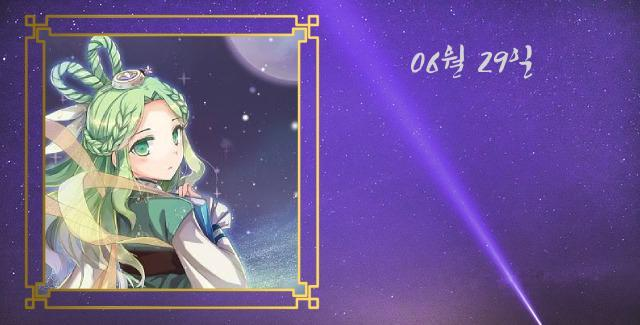
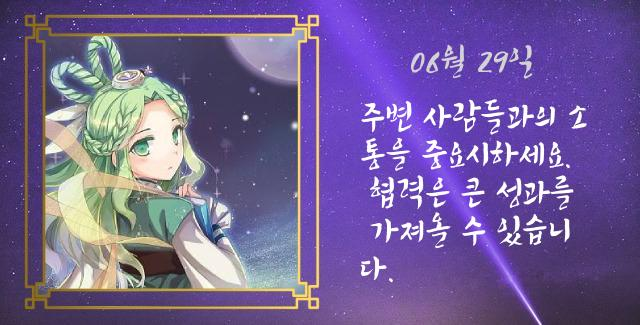
오늘의 운세 기능 만듦

Changed region(s): [[0.5625, 0.3077, 0.9375, 0.7692], [0.5625, 0.7692, 0.625, 0.8615]]

diff --git a/cogs/game.py b/cogs/game.py
@@ -8,23 +8,142 @@ import os
 import PIL
 from PIL import Image, ImageFont, ImageDraw
 import datetime
+import csv
 
+utc = datetime.timezone.utc
+rest_time = datetime.time(hour=19, minute=00, tzinfo=utc)
 __location__ = os.path.realpath(os.path.join(os.getcwd(), os.path.dirname(__file__)))
 
-ZodiacDict = {
-    "호랑이":"",
-    "토끼":"",
-    "용":"",
-    "뱀":"",
-    "말":"",
-    "양":"",
-    "원숭이":"",
-    "닭":"",
-    "개":"",
-    "돼지":"",
-    "쥐":"",
-    "소":"",
-}
+DailyLuckMsg = [
+        "오늘은 새로운 기회가 찾아올 것입니다.",
+        "어려운 일이 있더라도 포기하지 마세요. 그것이 성공으로 가는 길입니다.",
+        "긍정적인 에너지를 유지하세요. 주변 사람들에게 영감을 줄 수 있습니다.",
+        "과거의 실수를 후회하지 마세요. 그것들은 성장의 기회였습니다.",
+        "오늘은 집중력이 높아지는 날입니다. 목표에 집중하세요.",
+        "자신에게 자신감을 가지세요. 자신의 능력을 믿어야 성공할 수 있습니다.",
+        "예상치 못한 기쁨이 찾아올 것입니다. 기대해도 좋습니다.",
+        "주변 사람들과의 소통을 중요시하세요. 협력은 큰 성과를 가져올 수 있습니다.",
+        "주어진 일에 최선을 다하세요. 노력은 결실을 맺을 것입니다.",
+        "오늘은 명상이나 여가 시간을 갖는 것이 좋습니다. 내면의 평화를 찾을 수 있습니다.",
+        "어려움을 만나더라도 꿋꿋하게 나아가세요. 어려움은 단지 시험일 뿐입니다.",
+        "긍정적인 사고를 유지하세요. 그것이 문제 해결의 열쇠입니다.",
+        "도전에 맞서기를 두려워하지 마세요. 성장과 배움의 기회가 될 수 있습니다.",
+        "오늘은 새로운 인연이 생길 수 있는 날입니다. 주변을 주의깊게 봐주세요.",
+        "당신의 노력이 인정받을 것입니다. 주변 사람들의 찬사에 귀 기울이세요.",
+        "자신의 장점을 활용하세요. 그것이 성공으로 가는 열쇠입니다.",
+        "무엇이든 해낼 수 있습니다. 자신에게 자신감을 가지세요.",
+        "주변 사람들에게 도움을 구하세요. 협력은 상호 유익한 결과를 가져올 수 있습니다.",
+        "오늘은 긍정적인 변화가 있을 것입니다. 기대해도 좋습니다.",
+        "새로운 아이디어가 떠오를 것입니다. 창의적인 생각에 주목하세요.",
+        "오늘은 안정적인 에너지가 느껴질 것입니다. 안심하고 나아가세요.",
+        "어려운 상황에서도 포기하지 마세요. 어려움을 극복할 수 있습니다.",
+        "자신에게 도전을 주세요. 능력의 한계를 넘어설 수 있습니다.",
+        "오늘은 긍정적인 변화가 찾아올 것입니다. 기회를 잡으세요.",
+        "주변 사람들과의 원활한 소통이 중요합니다. 소통은 관계를 개선시킬 수 있습니다.",
+        "새로운 기회를 놓치지 마세요. 그것이 성공으로 이끌 수 있습니다.",
+        "오늘은 자신의 감정에 귀 기울이는 것이 좋습니다. 내면의 평화를 찾을 수 있습니다.",
+        "과거의 실수에 집착하지 마세요. 과거는 이미 지나갔습니다.",
+        "오늘은 자신의 장점을 믿어보세요. 그것이 성공으로 가는 길입니다.",
+        "어려운 일을 맡기 전에 충분히 준비하세요. 준비는 성공의 핵심입니다.",
+        "오늘은 독창적인 아이디어가 떠오를 수 있는 날입니다. 창의력을 발휘해 보세요.",
+        "자신을 사랑하고 돌봐주세요. 자기 존중감이 성공으로 이끌어 줄 것입니다.",
+        "주변 사람들의 조언에 귀를 기울이세요. 그들의 지혜는 가치가 있을 수 있습니다.",
+        "오늘은 운이 좋은 날입니다. 기대를 가져도 좋습니다.",
+        "목표를 분명하게 설정하세요. 목표가 뚜렷할수록 성공에 가까워집니다.",
+        "자신의 역량을 믿으세요. 그것이 성공을 이끄는 열쇠입니다.",
+        "어려움에 직면하더라도 겁내지 마세요. 어려움은 성장을 위한 시험입니다.",
+        "오늘은 새로운 도전에 임하는 것이 좋습니다. 성장의 기회가 될 수 있습니다.",
+        "긍정적인 마인드셋으로 일하세요. 그것이 성공에 가는 길입니다.",
+        "주변 사람들에게 관심을 가져주세요. 그들의 지지는 큰 힘이 될 수 있습니다.",
+        "오늘은 예상치 못한 성과를 얻을 수 있는 날입니다. 놀라운 결과를 기대해보세요.",
+        "노력에 대한 보상이 찾아올 것입니다. 꾸준한 노력은 결실을 맺을 것입니다.",
+        "자신에게 도전하고 성장하세요. 한계를 넘어설 수 있습니다.",
+        "오늘은 안정적인 에너지가 넘칠 것입니다. 이에 기대하세요.",
+        "어려움을 마주했을 때는 자신을 격려해주세요. 어려움은 단지 장애물일 뿐입니다.",
+        "긍정적인 사고방식으로 일하세요. 그것이 문제 해결을 돕습니다.",
+        "도전에 맞서기를 두려워하지 마세요. 그것이 성장과 발전의 길입니다.",
+        "오늘은 새로운 인연이 찾아올 수 있는 날입니다. 주변 사람들과의 만남을 소중히 여기세요.",
+        "당신의 노력과 열정은 인정받을 것입니다. 주변 사람들의 칭찬을 받아들이세요.",
+        "자신의 장점을 잘 활용하세요. 그것이 성공을 이끄는 열쇠입니다.",
+        "어떤 일이든 해낼 수 있습니다. 자신에게 자신감을 가지세요.",
+        "주변 사람들과의 협력을 이끌어내세요. 함께하는 힘은 큰 성과를 이끌어낼 수 있습니다.",
+        "오늘은 변화가 있을 수 있는 날입니다. 긍정적으로 변화에 대응하세요.",
+        "새로운 아이디어에 주목하세요. 그것이 미래를 열어갈 수 있습니다.",
+        "오늘은 안정적인 에너지를 느낄 수 있는 날입니다. 이를 활용하세요.",
+        "어려움을 마주했을 때 포기하지 마세요. 어려움은 성공을 위한 시험일 뿐입니다.",
+        "자신의 능력을 믿어보세요. 그것이 성공으로 이끌어 줄 것입니다.",
+        "오늘은 주변 사람들과의 원활한 소통이 중요합니다. 소통은 관계를 향상시킬 수 있습니다.",
+        "새로운 기회를 놓치지 마세요. 그것이 성공으로 이끌 수 있습니다.",
+        "오늘은 내면의 평화를 찾을 수 있는 좋은 날입니다. 조용한 시간을 가져보세요.",
+        "과거의 실수에 집착하지 마세요. 과거는 이미 지나갔습니다.",
+        "오늘은 자신의 장점을 활용해보세요. 그것이 성공을 향한 길입니다.",
+        "어려운 일을 맡기 전 충분한 준비를 해야합니다. 준비는 성공의 핵심입니다.",
+        "오늘은 창의적인 아이디어가 떠오를 수 있는 날입니다. 창조력을 발휘해보세요.",
+        "자신을 사랑하고 돌봐주세요. 자기 존중감이 성공을 이끌어줄 것입니다.",
+        "주변 사람들의 조언에 귀를 기울여보세요. 그들의 지혜는 귀중할 수 있습니다.",
+        "오늘은 운이 좋은 날입니다. 기대를 가져도 좋습니다.",
+        "목표를 명확히 설정하세요. 목표가 뚜렷할수록 성공에 가까워집니다.",
+        "자신의 역량을 믿어보세요. 그것이 성공을 이끄는 열쇠입니다.",
+        "어려운 상황에 직면해도 두려워하지 마세요. 어려움은 성장을 위한 기회입니다.",
+        "오늘은 새로운 도전에 집중해보세요. 성장의 기회가 될 수 있습니다.",
+        "긍정적인 사고방식으로 일하세요. 그것이 문제 해결을 돕습니다.",
+        "주변 사람들에게 관심을 가져주세요. 그들의 지지는 큰 힘이 될 수 있습니다.",
+        "오늘은 예상치 못한 결과를 얻을 수 있는 날입니다. 놀라운 결과를 기대해보세요.",
+        "노력한 만큼 보상이 올 것입니다. 꾸준한 노력은 성공으로 이끌어줄 것입니다.",
+        "자신에게 도전하고 성장하세요. 한계를 넘어설 수 있습니다.",
+        "오늘은 안정감을 느낄 수 있는 날입니다. 이를 활용해보세요.",
+        "어려운 상황에서도 포기하지 마세요. 어려움을 극복할 수 있습니다.",
+        "자신의 역량을 믿고 나아가세요. 그것이 성공으로 이끄는 열쇠입니다.",
+        "오늘은 기대 이상의 결과가 있을 수 있는 날입니다. 긍정적으로 대해보세요.",
+        "주변 사람들과의 원활한 소통이 중요합니다. 소통은 관계를 향상시킬 수 있습니다.",
+        "새로운 기회를 놓치지 마세요. 그것이 성공으로 이끌 수 있습니다.",
+        "오늘은 내면의 평화를 찾을 수 있는 좋은 날입니다. 조용한 시간을 갖추세요.",
+        "과거의 실수에 집착하지 마세요. 과거는 이미 지나간 일입니다.",
+        "오늘은 자신의 장점을 발휘해보세요. 그것이 성공을 향한 길입니다.",
+        "어떤 일이든 해낼 수 있습니다. 자신을 믿어보세요.",
+        "주변 사람들과의 협력을 이끌어내세요. 함께 하는 힘은 큰 성과를 이끌어낼 수 있습니다.",
+        "오늘은 변화가 있는 날입니다. 긍정적으로 변화에 대응해보세요.",
+        "새로운 아이디어에 주목하세요. 그것이 미래를 열어갈 수 있습니다.",
+        "오늘은 안정된 에너지를 느낄 수 있는 날입니다. 이를 활용해보세요.",
+        "어려움을 마주했을 때 포기하지 않고 극복해보세요. 어려움은 성공을 위한 시험입니다.",
+        "자신의 능력을 믿어보세요. 그것이 성공을 이끌어줄 것입니다.",
+        "오늘은 주변 사람들과의 원활한 소통이 중요합니다. 상호 작용을 통해 관계를 향상시킬 수 있습니다.",
+        "새로운 기회를 놓치지 말고 잡으세요. 그것이 성공으로 이끌 수 있습니다.",
+        "오늘은 내면의 평화를 찾을 수 있는 좋은 날입니다. 조용한 시간을 가져보세요.",
+        "과거의 실수에 집착하지 않아도 괜찮습니다. 과거는 이미 지나간 일입니다.",
+        "오늘은 자신의 장점을 잘 활용해보세요. 그것이 성공을 향한 열쇠입니다.",
+        "어려운 상황에 직면했을 때도 포기하지 마세요. 어려움은 성장을 위한 시험입니다.",
+        "오늘은 새로운 도전을 맞이하기에 좋은 날입니다. 성장과 발전의 기회가 될 수 있습니다.",
+        "긍정적인 사고를 유지하세요. 그것이 성공으로 이끄는 길입니다.",
+        "자신의 목표를 분명하게 설정하세요. 명확한 목표는 성공을 향한 길목을 제시해줍니다.",
+        "오늘은 도전에 집중해보세요. 도전은 성장과 발전의 기회를 가져다줍니다.",
+        "자신의 역량과 잠재력을 믿어보세요. 당신은 놀라운 일을 이룰 수 있습니다.",
+        "오늘은 새로운 아이디어가 떠오를 수 있는 날입니다. 창의력을 발휘해 보세요.",
+        "주변 사람들과의 협력을 강조해보세요. 함께하는 힘은 큰 성과를 이룰 수 있습니다.",
+        "오늘은 변화에 개방적인 태도를 갖추어보세요. 변화는 새로운 가능성을 열어줄 수 있습니다.",
+        "자신의 감정에 귀를 기울여보세요. 내면의 조화를 찾을 수 있습니다.",
+        "과거의 실수에 집착하지 마세요. 그 대신에 현재에 집중해보세요.",
+        "자신의 장점과 재능을 자랑스럽게 생각해보세요. 그것들이 당신의 독특한 매력입니다.",
+        "오늘은 자신을 사랑하고 돌보는 시간을 가져보세요. 자기 자신을 소중히 여기는 것이 중요합니다.",
+        "주변 사람들의 조언을 듣고 배우려 노력해보세요. 그들은 당신에게 새로운 시각을 제공할 수 있습니다.",
+        "오늘은 행운이 함께할 수 있는 날입니다. 긍정적인 기대를 가져보세요.",
+        "목표를 명확하게 설정하고 그에 맞춰 행동하세요. 목표는 당신을 성공으로 이끌어줄 것입니다.",
+        "자신의 역량과 잠재력을 믿어보세요. 당신은 놀라운 성과를 이룰 수 있습니다.",
+        "오늘은 주변 사람들과의 소통에 더욱 신경을 써야 합니다. 소통은 관계를 향상시킬 수 있습니다.",
+        "새로운 기회를 놓치지 말고 잡으세요. 그것이 당신의 성공으로 이끌어갈 수 있습니다.",
+        "오늘은 내면의 평화와 조화를 찾을 수 있는 좋은 날입니다. 조용한 시간을 갖추세요.",
+        "과거의 실수에 과도하게 집착하지 말고, 그 대신에 배움과 성장에 집중하세요.",
+        "오늘은 자신의 장점을 최대한으로 활용해보세요. 그것이 성공으로 이끄는 열쇠입니다.",
+        "어려운 상황에 직면해도 극복할 수 있습니다. 자신에게 믿음을 가져보세요.",
+        "자신의 능력을 자세히 알아보세요. 그것이 성공을 이끄는 중요한 요소입니다.",
+        "오늘은 주변 사람들과의 원활한 협력이 필요합니다. 함께 하는 것이 큰 성과를 이룰 수 있습니다.",
+        "새로운 시도에 열린 마음을 가져보세요. 그것이 당신에게 더 나은 결과를 가져다줄 수 있습니다.",
+        "자신의 창조적인 아이디어를 발휘해보세요. 놀라운 발견을 할 수 있습니다.",
+        "오늘은 안정된 에너지를 느낄 수 있는 날입니다. 이를 활용해보세요.",
+        "어려운 상황에 직면했을 때도 포기하지 마세요. 어려움은 성장과 배움의 기회입니다.",
+        "자신의 능력과 자신감을 믿어보세요. 당신은 놀라운 일을 이룰 수 있습니다.",
+        "오늘은 주변 사람들과의 원활한 소통이 중요합니다. 상호 작용을 통해 관계를 더욱 향상시킬 수 있습니다."
+        ]
 
 MemoryGameDict = {1:"<:aya:1122868308144828438>",
 2:"<:baduk:1122868299663941783>",
@@ -190,14 +309,26 @@ class Game(commands.Cog):
         await interaction.response.send_message(embed=embed, view=view)
 
     @app_commands.command(name="운세", description="오늘의 운세입니다")
-    async def DailyLuck(self, interaction: discord.Interaction, zodiac: str):
-        """
-        _summary_
-        오늘의 띠별 운세
-        Args:
-            interaction (discord.interaction, 필수): 커맨드 쓴 사람 & interaction
-            zodiac (int, 옵션): 자신의 띠
-        """
+    async def DailyLuck(self, interaction: discord.Interaction):
+        user_id = interaction.user.id
+
+        f = open(os.path.join(f"{__location__}\\DailyLuck\\DailyLuckCSV.csv"), 'r')
+        fr = csv.reader(f)
+        luck_text = ""
+
+        for line in fr:
+            if line[0] == str(user_id):
+                luck_text = line[1]
+                break
+
+        f.close()
+        
+        if luck_text == "":
+            luck_text = DailyLuckMsg[random.randint(0,127)]
+            f = open(os.path.join(f"{__location__}\\DailyLuck\\DailyLuckCSV.csv"), 'a', newline='')
+            fw = csv.writer(f)
+            fw.writerow([user_id, luck_text])
+            f.close()
 
         date_text = datetime.datetime.now().strftime("%m")+"월"+" "+datetime.datetime.now().strftime("%d")+"일"
         image = Image.open(os.path.join(f"{__location__}\\DailyLuck\\DailyLuckImg.jpg"))
@@ -205,11 +336,6 @@ class Game(commands.Cog):
         draw = ImageDraw.Draw(image)
         draw.text((410,40),date_text,font=ImageFont.truetype(os.path.join(fonts_dir, 'Dobong_Cultural_Routes(TTF).ttf'), 35), fill=(210,210,210))
         image.save(os.path.join(f"{__location__}\\DailyLuck\\DailyLuckImgDate.jpg"))
-
-        try:
-            luck_text = ZodiacDict[zodiac]
-        except:
-            luck_text = "호랑이·토끼·용·뱀·말·양·원숭이·닭·개·돼지·쥐·소 중 하나의 띠를 입력해 주십시오"
 
         msg = ""
         n = len(luck_text)//10
@@ -229,6 +355,12 @@ class Game(commands.Cog):
         embed.set_image(url="attachment://image.jpg")
         embed.set_author(name="성의", icon_url="https://pbs.twimg.com/profile_images/2541389832/oph3xdipc43uupewwjau_400x400.png")
         await interaction.response.send_message(embed=embed, file=file)
+
+    @tasks.loop(time= rest_time)
+    async def reset_attendence(self):
+        f = open(os.path.join(f"{__location__}\\DailyLuck\\DailyLuckCSV.csv"), "w")
+        f.truncate()
+        f.close()
 
 async def setup(bot):
     await bot.add_cog(Game(bot))
